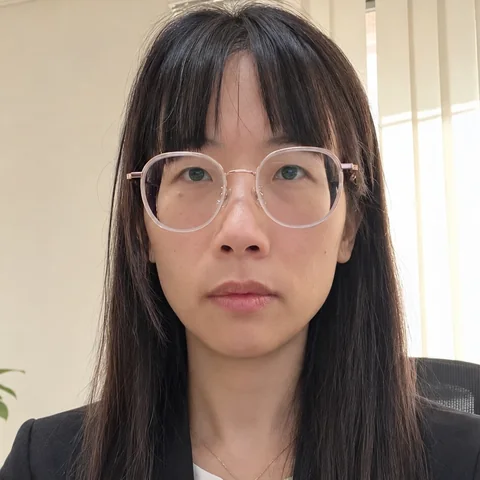
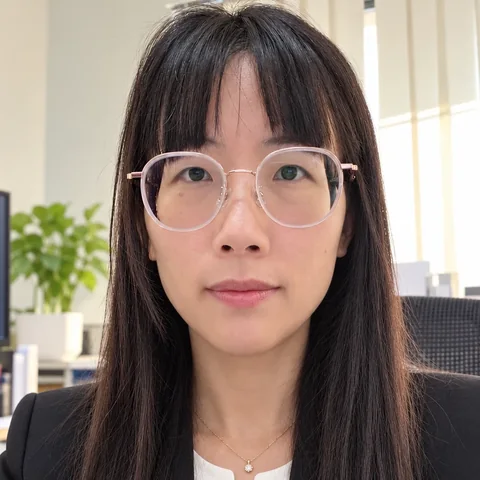
Update portrait photo and add interactive animations
Claude-Session: https://claude.ai/code/session_01QaUEArpTiuusfpKtoMmMxT

diff --git a/index.html b/index.html
@@ -254,6 +254,35 @@
 
   :focus-visible{ outline:2px solid var(--blue); outline-offset:3px; }
 
+  /* ===== 互動動畫 ===== */
+  /* 卡片游標光暈：JS 寫入 --mx / --my */
+  .spot{ --mx:50%; --my:50%; }
+  .spot::after{ content:""; position:absolute; inset:0; border-radius:inherit; pointer-events:none; background:radial-gradient(360px circle at var(--mx) var(--my),rgba(37,99,235,.10),rgba(124,58,237,.05) 40%,transparent 65%); opacity:0; transition:opacity .35s ease; }
+  .spot:hover::after{ opacity:1; }
+  /* 照片視差傾斜 */
+  #heroVisual{ perspective:1000px; }
+  #heroVisual .portrait-frame{ transform-style:preserve-3d; will-change:transform; }
+  .tilt-glare{ position:absolute; inset:0; border-radius:2rem; pointer-events:none; background:radial-gradient(circle at var(--gx,50%) var(--gy,30%),rgba(255,255,255,.28),transparent 55%); opacity:0; transition:opacity .4s ease; }
+  #heroVisual:hover .tilt-glare{ opacity:1; }
+  /* 磁吸按鈕：使用獨立 translate 屬性，不與 hover 的 transform 衝突 */
+  .magnetic{ transition:translate .25s ease-out, box-shadow .4s ease, transform .35s ease; }
+  /* 時間軸隨捲動點亮 */
+  .tl-line{ opacity:.35; }
+  .tl-progress{ position:absolute; top:.5rem; left:11px; width:2px; height:calc(100% - 3.5rem); border-radius:2px; background:var(--grad); transform-origin:top; transform:scaleY(var(--p,0)); box-shadow:0 0 12px rgba(37,99,235,.45); }
+  @media(min-width:768px){ .tl-progress{ left:50%; margin-left:-1px; } }
+  .tl-dot{ transition:background .4s ease, box-shadow .4s ease, transform .4s ease; }
+  .tl-item .tl-dot.lit{ background:var(--blue); box-shadow:0 0 0 6px rgba(37,99,235,.16), 0 0 18px rgba(37,99,235,.55); }
+  /* 方法步驟 hover */
+  .step-num{ transition:transform .35s cubic-bezier(.3,1.6,.5,1), box-shadow .35s ease; }
+  .step:hover .step-num{ transform:scale(1.12) rotate(-6deg); box-shadow:0 0 0 9px rgba(37,99,235,.12), 0 14px 26px -8px rgba(79,70,229,.8); }
+  .icon-tile{ transition:transform .4s cubic-bezier(.3,1.6,.5,1); }
+  .lift:hover .icon-tile{ transform:translateY(-3px) rotate(-6deg) scale(1.06); }
+  /* 案例示意圖 hover 放大 */
+  .visual svg{ transition:transform .6s cubic-bezier(.2,.7,.2,1); }
+  .lift:hover .visual svg{ transform:scale(1.06); }
+  /* 解碼文字 */
+  .scramble-char{ color:var(--violet); opacity:.7; }
+
   /* ===== 減少動態 ===== */
   @media (prefers-reduced-motion: reduce){
     html{ scroll-behavior:auto !important; }
@@ -399,8 +428,8 @@
 
     <!-- 右：大頭照視覺 -->
     <div class="lg:col-span-5 reveal" style="--d:200ms">
-      <div class="relative mx-auto w-full max-w-[300px] sm:max-w-[360px]">
-        <svg class="orbit" viewBox="0 0 400 400" aria-hidden="true">
+      <div id="heroVisual" class="relative mx-auto w-full max-w-[300px] sm:max-w-[360px]">
+        <svg class="orbit" data-depth="-10" viewBox="0 0 400 400" aria-hidden="true">
           <circle cx="200" cy="200" r="196" fill="none" stroke="url(#gBrand)" stroke-opacity=".28" stroke-dasharray="2 8"/>
           <circle cx="200" cy="200" r="160" fill="none" stroke="url(#gBrand)" stroke-opacity=".18"/>
           <circle cx="200" cy="4" r="5" fill="#2563eb"/>
@@ -410,13 +439,14 @@
 
         <div class="portrait-frame">
           <img src="assets/grace-portrait.webp" alt="邱數恩（Grace）的個人照片" width="880" height="1100" fetchpriority="high" />
+          <span class="tilt-glare" aria-hidden="true"></span>
         </div>
 
         <!-- 浮動資訊卡（僅使用已提供的事實） -->
-        <div class="float-card glass px-3.5 py-2 -left-3 sm:-left-10 top-8 flex items-center gap-2 text-sm font-medium" aria-hidden="true">
+        <div data-depth="26" class="float-card glass px-3.5 py-2 -left-3 sm:-left-10 top-8 flex items-center gap-2 text-sm font-medium" aria-hidden="true">
           <span class="status-dot"></span>可預約諮詢
         </div>
-        <div class="float-card glass p-3 pr-4 -left-3 sm:-left-14 bottom-12 flex items-center gap-3" style="animation-delay:-2.5s">
+        <div data-depth="34" class="float-card glass p-3 pr-4 -left-3 sm:-left-14 bottom-12 flex items-center gap-3" style="animation-delay:-2.5s">
           <span class="icon-tile !w-10 !h-10 !rounded-xl">
             <svg width="20" height="20" viewBox="0 0 24 24" fill="none" stroke="currentColor" stroke-width="2" stroke-linecap="round" stroke-linejoin="round" aria-hidden="true"><circle cx="12" cy="9" r="6"/><path d="m8.5 14.5-1.5 7 5-3 5 3-1.5-7"/></svg>
           </span>
@@ -425,7 +455,7 @@
             <span class="block text-xs text-body mt-0.5">產品返品預測策略</span>
           </span>
         </div>
-        <div class="float-card glass p-3 px-4 -right-3 sm:-right-8 top-1/2 leading-tight" style="animation-delay:-4.5s">
+        <div data-depth="20" class="float-card glass p-3 px-4 -right-3 sm:-right-8 top-1/2 leading-tight" style="animation-delay:-4.5s">
           <span class="block font-display text-lg font-semibold gradient-text">2012 → Now</span>
           <span class="block text-xs text-body mt-0.5">企業 IT 實務</span>
         </div>
@@ -499,6 +529,7 @@
 
       <div class="tl mt-14">
         <div class="tl-line" aria-hidden="true"></div>
+        <div class="tl-progress" aria-hidden="true"></div>
 
         <!-- 階段 1 -->
         <article class="tl-item reveal">
@@ -1179,12 +1210,22 @@
     var probe = y + 160, current = sections[0].id;
     sections.forEach(function (s) { if (s.offsetTop <= probe) current = s.id; });
     if (window.innerHeight + y >= document.documentElement.scrollHeight - 4) current = 'contact';
+    updateTimeline();
     links.forEach(function (a) {
       var on = a.getAttribute('href') === '#' + current;
       a.classList.toggle('active', on);
       if (on) a.setAttribute('aria-current', 'true'); else a.removeAttribute('aria-current');
     });
     ticking = false;
+  }
+  /* 時間軸：依捲動進度填滿線條、點亮節點 */
+  var tl = $('.tl'), tlProg = $('.tl-progress'), tlDots = $$('.tl .tl-dot');
+  function updateTimeline() {
+    if (!tl) return;
+    var r = tl.getBoundingClientRect(), mark = window.innerHeight * 0.62;
+    var p = Math.max(0, Math.min(1, (mark - r.top) / r.height));
+    tlProg.style.setProperty('--p', p.toFixed(3));
+    tlDots.forEach(function (d) { d.classList.toggle('lit', d.getBoundingClientRect().top < mark); });
   }
   window.addEventListener('scroll', function () { if (!ticking) { ticking = true; requestAnimationFrame(onScroll); } }, { passive: true });
   window.addEventListener('resize', onScroll);
@@ -1507,6 +1548,83 @@
     var rt; window.addEventListener('resize', function () { clearTimeout(rt); rt = setTimeout(size, 200); });
     document.addEventListener('visibilitychange', function () { if (document.hidden) stop(); else start(); });   // 分頁不在前景時暫停
     size(); start();
+  })();
+
+  /* ---------- 互動動畫（僅限滑鼠裝置，且未開啟減少動態） ---------- */
+  var finePointer = window.matchMedia('(hover: hover) and (pointer: fine)').matches;
+
+  // 1) 卡片游標光暈
+  if (finePointer) {
+    $$('.card.lift').forEach(function (c) {
+      c.classList.add('spot');
+      c.addEventListener('pointermove', function (e) {
+        var r = c.getBoundingClientRect();
+        c.style.setProperty('--mx', (e.clientX - r.left) + 'px');
+        c.style.setProperty('--my', (e.clientY - r.top) + 'px');
+      });
+    });
+  }
+
+  // 2) 大頭照 3D 視差傾斜＋浮動卡片景深
+  (function heroTilt() {
+    if (!finePointer || reduce) return;
+    var hero = $('#home'), box = $('#heroVisual'), frame = $('.portrait-frame', box);
+    var layers = $$('[data-depth]', box);
+    var tx = 0, ty = 0, cx = 0, cy = 0, raf = null;
+    function loop() {
+      cx += (tx - cx) * 0.08; cy += (ty - cy) * 0.08;
+      frame.style.transform = 'rotateY(' + (cx * 8).toFixed(2) + 'deg) rotateX(' + (-cy * 8).toFixed(2) + 'deg)';
+      frame.style.setProperty('--gx', (50 + cx * 40) + '%'); frame.style.setProperty('--gy', (30 + cy * 40) + '%');
+      layers.forEach(function (l) { var d = +l.getAttribute('data-depth'); l.style.translate = (cx * d).toFixed(1) + 'px ' + (cy * d).toFixed(1) + 'px'; });
+      if (Math.abs(tx - cx) > 0.001 || Math.abs(ty - cy) > 0.001) raf = requestAnimationFrame(loop); else raf = null;
+    }
+    function kick() { if (!raf) raf = requestAnimationFrame(loop); }
+    hero.addEventListener('pointermove', function (e) {
+      var r = box.getBoundingClientRect();
+      tx = Math.max(-1, Math.min(1, (e.clientX - (r.left + r.width / 2)) / (r.width)));
+      ty = Math.max(-1, Math.min(1, (e.clientY - (r.top + r.height / 2)) / (r.height)));
+      kick();
+    });
+    hero.addEventListener('pointerleave', function () { tx = 0; ty = 0; kick(); });
+  })();
+
+  // 3) 磁吸按鈕
+  if (finePointer && !reduce) {
+    $$('.btn-lg').forEach(function (b) {
+      b.classList.add('magnetic');
+      b.addEventListener('pointermove', function (e) {
+        var r = b.getBoundingClientRect();
+        b.style.translate = ((e.clientX - r.left - r.width / 2) * 0.18).toFixed(1) + 'px ' + ((e.clientY - r.top - r.height / 2) * 0.3).toFixed(1) + 'px';
+      });
+      b.addEventListener('pointerleave', function () { b.style.translate = '0px 0px'; });
+    });
+  }
+
+  // 4) 區塊標籤解碼效果（進入畫面時播放一次）
+  (function scramble() {
+    if (reduce || !('IntersectionObserver' in window)) return;
+    var CH = 'ABCDEFGHIJKLMNOPQRSTUVWXYZ0123456789/#_';
+    function run(node) {
+      var final = node.nodeValue, frame = 0, total = 22;
+      (function tick() {
+        var out = '';
+        for (var i = 0; i < final.length; i++) {
+          var ch = final.charAt(i);
+          out += (ch === ' ' || i < (frame / total) * final.length) ? ch : CH.charAt((Math.random() * CH.length) | 0);
+        }
+        node.nodeValue = out;
+        if (++frame <= total) setTimeout(tick, 32); else node.nodeValue = final;
+      })();
+    }
+    var ko = new IntersectionObserver(function (es) {
+      es.forEach(function (e) {
+        if (!e.isIntersecting) return;
+        ko.unobserve(e.target);
+        var t = Array.prototype.filter.call(e.target.childNodes, function (n) { return n.nodeType === 3 && n.nodeValue.trim(); }).pop();
+        if (t) run(t);
+      });
+    }, { threshold: 0.6 });
+    $$('.kicker').forEach(function (k) { ko.observe(k); });
   })();
 
   /* ---------- 佔位連結提示（尚未替換的 LinkedIn / GitHub） ---------- */
